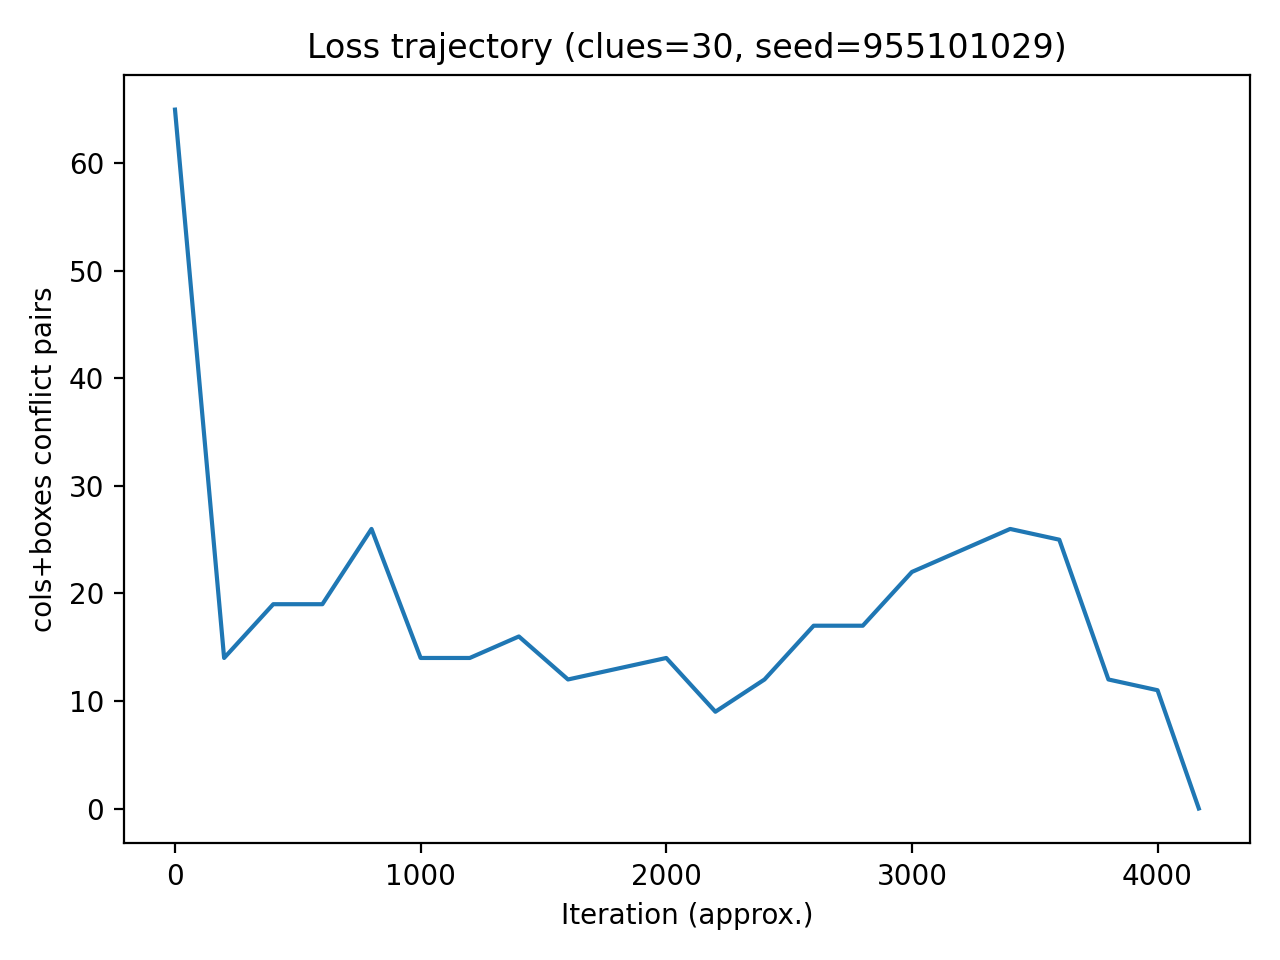
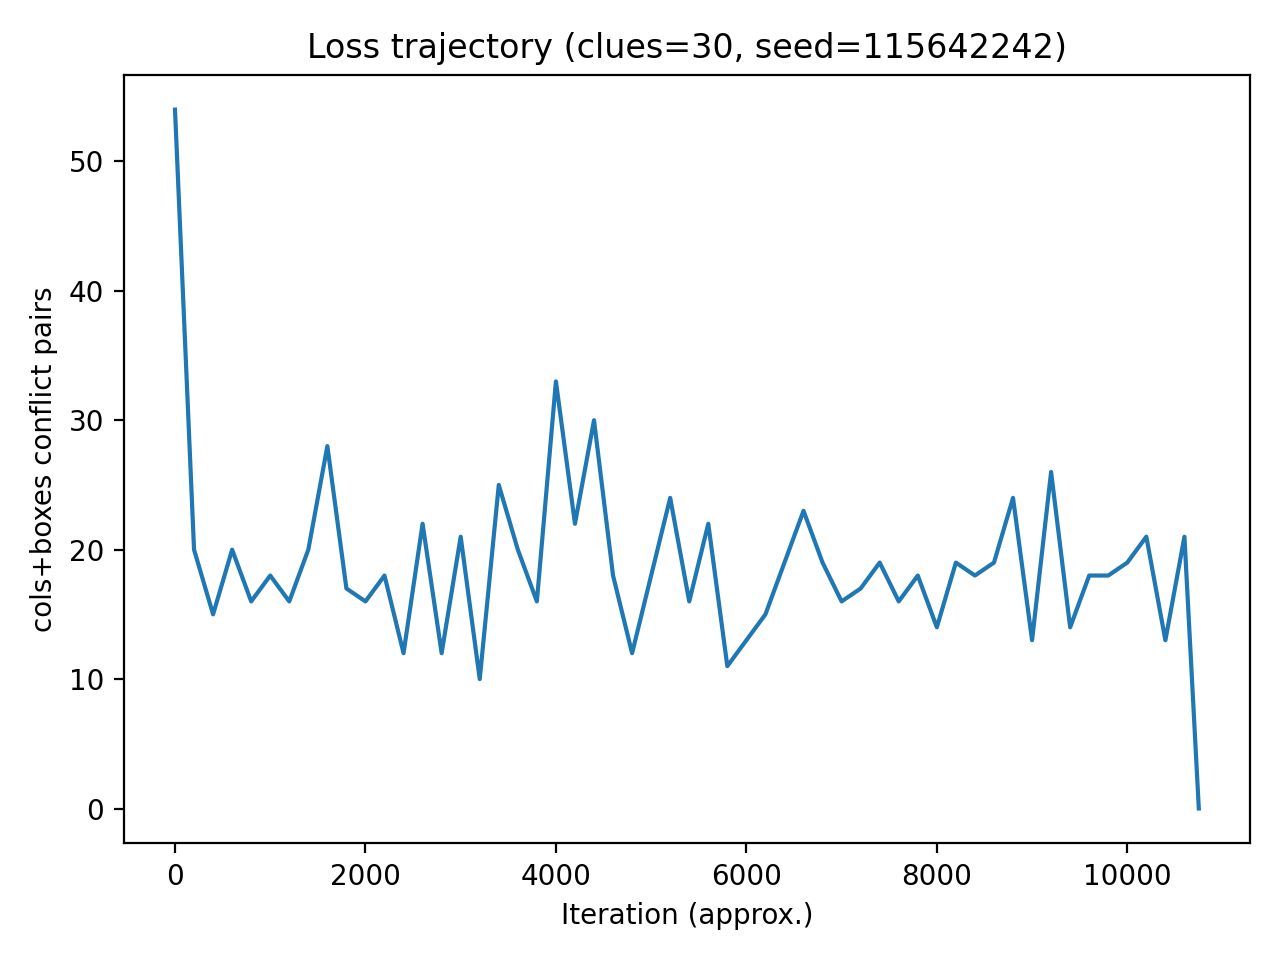
Fix experiment median formatting and trace plot

diff --git a/code/run_experiments.py b/code/run_experiments.py
@@ -213,7 +213,8 @@ def main() -> None:
         if solved:
             steps = [r["steps"] for r in solved]
             secs = [r["seconds"] for r in solved]
-            summary_lines.append(f"  median steps: {int(statistics.median(steps))}")
+            median_steps = statistics.median(steps)
+            summary_lines.append(f"  median steps: {median_steps:g}")
             summary_lines.append(f"  median seconds: {statistics.median(secs):.3f}")
     (outdir / "summary.txt").write_text("\n".join(summary_lines))
 